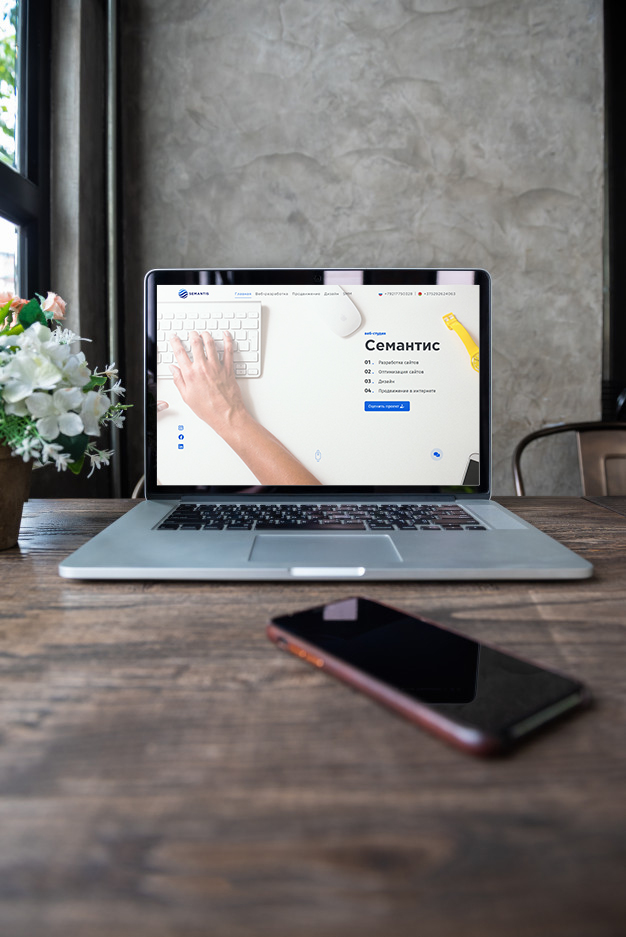
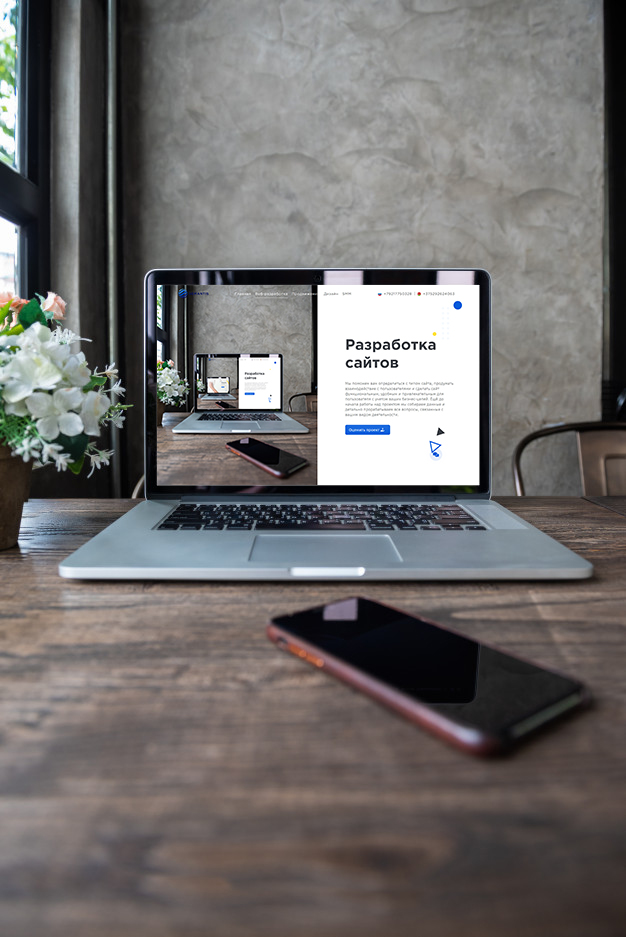
production

Changed region(s): [[0.2428, 0.2785, 0.7891, 0.5261]]

diff --git a/src/components/nav/nav.js b/src/components/nav/nav.js
@@ -80,11 +80,11 @@ export default ({ siteTitle, location }) => {
         break
       case "/internet-promotion/":
         if (state.selectedSection === 1) {
-          return "gray"
+          return "left-white_right-gray"
         } else return "grayMenu"
         break
       case "/develop/":
-        return "greyMenu line-none"
+        return "greyMenu"
         break
       case "/design/":
         if (state.selectedSection === 0) {
@@ -97,7 +97,7 @@ export default ({ siteTitle, location }) => {
         if (state.selectedSection === 3) {
           return "whiteMenu"
         } else if (state.selectedSection === 0) {
-          return "gray"
+          return "left-white_right-gray"
         } else return "grayMenu"
         break
       default:
@@ -110,6 +110,9 @@ export default ({ siteTitle, location }) => {
         return state.selectedSection === 2 ? whiteLogo : blueLogo
         break
       case "/web-dev/":
+        return state.selectedSection === 1 ? whiteLogo : blueLogo
+        break
+      case "/internet-promotion/":
         return state.selectedSection === 1 ? whiteLogo : blueLogo
         break
       case "/design/":

diff --git a/src/components/internet-promotion/targeted-advertising/targeted-advertising.js b/src/components/internet-promotion/targeted-advertising/targeted-advertising.js
@@ -47,7 +47,7 @@ export default function TargetedAdvertising() {
           <div className="col-12 d-flex flex-column">
             <h2 className="d-block d-md-none">Таргетинг</h2>
             <h2 className="d-none d-md-block">Таргетированная реклама</h2>
-            <p className="mt-3 mt-md-5">
+            <p>
               Даёт возможность не только увеличить продажи, но и продавать легко.
               Мы настроим её на вашу целевую аудиторию по заданным параметрам: пол, возраст, геолокация и т.д.,
               что позволит большинству потенциальных клиентов прийти именно к вам.

diff --git a/src/components/internet-promotion/optimization-site/optimization-site.js b/src/components/internet-promotion/optimization-site/optimization-site.js
@@ -23,7 +23,7 @@ export default function OptimizationSite() {
     <div className="optimization-site section50 section50-left">
       <div className="container">
         <div className="row justify-content-start">
-          <h2>Оптимизация <span>сайта</span></h2>
+          <h2>Оптимизация сайта</h2>
           <div className="optimization-site__content">
             <p>SEO (Search Engine Optimization) — комплекс мер по оптимизации сайта для
               улучшения позиции в выдаче поисковых систем по определённым запросам и

diff --git a/src/components/internet-promotion/optimization-site/optimization-site.sass b/src/components/internet-promotion/optimization-site/optimization-site.sass
@@ -32,15 +32,6 @@
       background: #F6FAFF
       color: #085DDB
 
-@media screen and (min-width: 992px)
-  .optimization-site
-    h2
-      color: #F6FAFF
-      min-width: max-content
-
-      span
-        color: #3B3F45
-
 @media (max-width: 991px)
   .optimization-site
     overflow: hidden

diff --git a/src/components/nav/nav-state.sass b/src/components/nav/nav-state.sass
@@ -63,9 +63,6 @@ header
     #line
       border-color: #FFFFFF
 
-  &.gray
-    background: rgba(255, 255, 255, 0.9)
-
   &.line-none
     #line
       display: none !important

diff --git a/src/components/internet-promotion/targeted-advertising/targeted-advertising.sass b/src/components/internet-promotion/targeted-advertising/targeted-advertising.sass
@@ -10,6 +10,9 @@
     margin: auto
     z-index: 2
 
+  p
+    margin: 30px 0
+
   &:after
     content: ''
     position: absolute

diff --git a/src/components/internet-promotion/first-section/first-section.sass b/src/components/internet-promotion/first-section/first-section.sass
@@ -24,7 +24,6 @@
       flex-direction: column
 
       h1
-        font-size: 35px
         padding-top: 100px
 
         span

diff --git a/src/components/internet-promotion/contextual-advertising/contextual-advertising.sass b/src/components/internet-promotion/contextual-advertising/contextual-advertising.sass
@@ -13,6 +13,9 @@
     margin: auto
     z-index: 2
 
+  p
+    margin: 30px 0
+
   &__elements
     display: none
 

diff --git a/src/components/web-dev/first-section/first-section.sass b/src/components/web-dev/first-section/first-section.sass
@@ -1,6 +1,6 @@
 .section-img
   img
-    height: 100%
+    height: auto
     width: 100%
     object-fit: cover
 
